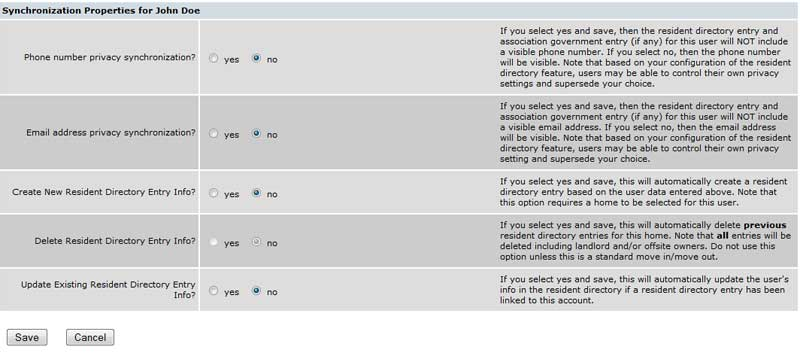
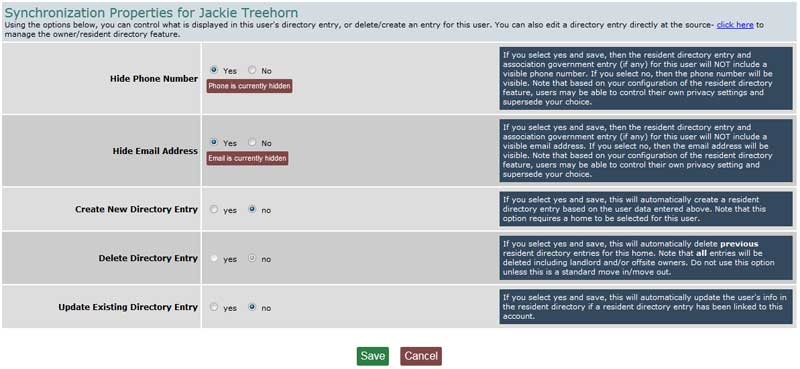
Updated users guide, started RK guide

diff --git a/user-panels.html b/user-panels.html
@@ -17,29 +17,29 @@
 					Creation - Basics
 				</li>
 			</a>
-			<a href ng-click = 'userpanel.selectTab(2, "Creation - Admins")'>
+			<a href ng-click = 'userpanel.selectTab(2, "Home Assignment")'>
 				<li ng-class = "{active:userpanel.isSelected(2)}">
-					Creation - Admin
-				</li>
-			</a>
-			<a href ng-click = 'userpanel.selectTab(3, "Creation - Contacts")'>
-				<li ng-class = "{active: userpanel.isSelected(3)}">
-					Creation - Contacts
-				</li>
-			</a>
-			<a href ng-click = 'userpanel.selectTab(4, "Home Assignment Options")'>
-				<li ng-class = "{active:userpanel.isSelected(4)}">
 					Home Assignment
 				</li>
 			</a>
-			<a href ng-click = 'userpanel.selectTab(5, "Syncing the Resident Directory")'>
-				<li ng-class = "{active: userpanel.isSelected(5)}">
+			<a href ng-click = 'userpanel.selectTab(3, "Directory Sync")'>
+				<li ng-class = "{active: userpanel.isSelected(3)}">
 					Directory Sync
 				</li>
 			</a>
-			<a href ng-click = 'userpanel.selectTab(6, "Add to a Mailing List")'>
-				<li ng-class = "{active: userpanel.isSelected(6)}">
+			<a href ng-click = 'userpanel.selectTab(4, "Mailing List")'>
+				<li ng-class = "{active:userpanel.isSelected(4)}">
 					Mailing List
+				</li>
+			</a>
+			<a href ng-click = 'userpanel.selectTab(5, "Access Level")'>
+				<li ng-class = "{active: userpanel.isSelected(5)}">
+					Access Level
+				</li>
+			</a>
+			<a href ng-click = 'userpanel.selectTab(6, "Board/Committee Contacts")'>
+				<li ng-class = "{active: userpanel.isSelected(6)}">
+					Board Contacts
 				</li>
 			</a>
 			<a href ng-click = 'userpanel.selectTab(7, "Autogenerate Users")'>
@@ -63,40 +63,22 @@
 	</div>
 	<div class = 'panel' ng-show = 'userpanel.isSelected(1)'>
 		Once you've clicked to edit an existing user or create a new user, you'll see a new screen- the top section is below.
-		<img src="HelpImages/UserSection/usersgeneral.jpg" alt="Basic User Configuration" />
-		<strong>Name</strong> - Enter the name of the primary account holder. Enter the first name in the initial name field, tab to the next field and enter the last name. You should enter names with leading capital letters (e.g. “George,” not “george”).
-		<strong>Username</strong> - The Username will be created for you in the recommended format, last name plus first initial. You can change it while you are adding a new name, but for consistency we recommend that you do not. If you do change it, the user name you enter must be at least 2 characters long and each character must be either a number or a lowercase letter. Although the field will accept many different characters, automated processes limit the length to 10 characters. We suggest that directly entered user names also be limited to 10 characters as well for consistency. If you decide after the record has been created that you want a different username, you have to delete the record and create a new one.<br />
+		<img src="HelpImages/UserSection/usersbasicinfo.jpg" alt="Basic User Configuration" />
+		<strong>Name and Username</strong> - Enter the name of the primary account holder. Enter the first name in the initial name field, tab to the next field and enter the last name. You should enter names with leading capital letters (e.g. “George,” not “george”). The Username will be created for you in the recommended format, last name plus first initial. You can change it while you are adding a new name, but for consistency we recommend that you do not. If you do change it, the user name you enter must be at least 2 characters long and each character must be either a number or a lowercase letter. Although the field will accept many different characters, automated processes limit the length to 10 characters. We suggest that directly entered user names also be limited to 10 characters as well for consistency. If you decide after the record has been created that you want a different username, you have to delete the record and create a new one.<br />
 		<br />
 		<strong>Password</strong> - The Password fields are for the entry of an initial password – or a new temporary password when your user forgets their logon credentials. If you are not changing the password, leave the fields blank. If you are, enter a new, temporary password carefully in both fields. It does not matter what password you enter as long as the entries are a minimum of 5 and maximum of 10 characters long and match exactly.<br />
 		<em>Note: Passwords are case sensitive (i.e. “OneWinner” is not the same as “onewinner”).</em><br />
 		<br />
+		<strong>Contact Info</strong> - Enter the user's email address and phone number here.  Enter the user’s email address carefully. It is best to copy (ctrl/c) and paste it (ctrl/v) from the original request document if possible. If not, pay attention to the use of upper and lower case letters in the address – some services require exact matches.  The phone number field is a free form entry field, so you can enter the number in several different formats, e.g. 1235551212, or 123-555-1212, or (123) 555-1212. If you live in a community where there is only one area code and you do not need to dial 10 digits, simply enter the 7 digit number.<br />
+		<br />
 		<strong>Notification</strong> – This feature allows you to generate an automatic email message (assuming there is an email address in the record) which will notify the user of their logon credentials. You can customize this notification in the <a href = 'helpGeneral.php'>General tab</a> on your admin panel's main left hand menu.
 	</div>
 	<div class = 'panel' ng-show = 'userpanel.isSelected(2)'>
-		This is the second section of the main user account configuration screen.
-		<img src="HelpImages/UserSection/usersadmin.jpg" alt="Admin Setup Options">
-		<strong>Site Administrator</strong> - Any user may be assigned Site Administrator status, but your site can only have one Primary Administrator. The only difference between a Primary and a non- Primary administrator is that the email address on file (and required) for a Primary Administrator is used for all standard forms (User Id Requests and the Contact Site Administrator link at the bottom of every page).<br />
+		This is the second section of the main user account configuration screen.  Below are steps you'll see when you click to edit the home assignment options.  Click tags at left to work with other areas.
+		<img src="HelpImages/UserSection/usershomedir.jpg" alt="Home Assignment">
+		<em>Remember: The “edit” link for the Home Assignment Properties will appear after you enter and save the basic user information.</em><br />
 		<br />
-		<strong>Feature Administrator</strong> – Many of the site features allow you to share the work load of maintaining the information with another community volunteer, referred to as a feature administrator. By selecting “yes” you are simply making this name available for selection later for a specific feature. The actual assignment of a particular user to feature administration is done in the “Edit” section of the feature (Calendar, Ads, etc.).<br />
-		<br />
-		<strong>Page Administrator</strong> – Any page may be assigned to a specific user for maintenance. Selecting “yes” here simply makes their name available for assigning to the page (much like a feature administrator). You can also decide if their page maintenance privileges include the ability to add new pages to the site. The actual assignment of this user to a page is done on the Page itself.
-	</div>
-	<div class = 'panel' ng-show = 'userpanel.isSelected(3)'>
-		The 3rd section of the user configuration scren is below.
-		<img src="HelpImages/UserSection/userscontact.jpg" alt="Users contact info section" />
-		<strong>Board Member</strong> – If this user is a Board member, select “yes: and enter the title. This causes the information to be made available to the Association Government (link to guide coming soon!) feature.<br />
-		<br />
-		<strong>Officer/Official</strong> – If this user is another volunteer leader in the community (e.g. Committee Chair, Web Site Administrator, Management Company representative, etc.), select “yes” and enter the title. This causes the information to be made available to the “Association Government” feature. See the “Association Government” guide for more information.<br />
-		<br />
-		<strong>Phone Number</strong> – Enter the user’s phone number. If you live in a community that has more then one area code or requires 10 digit dialing, you should enter the full 10 digit number. It’s a free form entry field, so you can enter the number in several different formats, e.g. 1235551212, or 123-555-1212, or (123) 555-1212. If you live in a community where there is only one area code and you do not need to dial 10 digits, simply enter the 7 digit number.<br />
-		<br />
-		<strong>Email Address</strong> – Enter the user’s email address carefully. It is best to copy (ctrl/c) and paste it (ctrl/v) from the original request document if possible. If not, pay attention to the use of upper and lower case letters in the address – some services require exact matches.
-	</div>
-	<div class = 'panel' ng-show = 'userpanel.isSelected(4)'>
-		<img src="HelpImages/UserSection/homeassignmentlink.jpg" alt="Home Assignment Link" />
-		<em>Note: The “edit” link for the Home Assignment Properties will appear after you enter and save the basic user information.</em> Once you have entered the Email Address, scroll down and select “Save and stay here.” The option fields will then be available for editing. Since some of the Synchronization Options require a home assignment, enter the Home Assignment Properties first followed by the Synchronization Options/Mailing List Assignment Options.<br />
-		<br />
-		<strong>Home Assignment Properties</strong> – Select “Edit” and a screen similar to the one shown below will be displayed. This screen is used to define the type of record you are entering and the residence specific options.
+		<strong>Home Assignment Options</strong> – Select “Edit” and a screen similar to the one shown below will be displayed. This screen is used to define the type of record you are entering and the residence specific options.
 		<img src="HelpImages/UserSection/homeassignmentmain.jpg" alt="Home Assignment Screen" />
 		<strong>Account Type</strong> – Users can be residents of the community or other people who do not live in the community but need access to the secured areas of the site. Select “Property Resident or Owner” for community members and “Authorized User” for others.<br />
 		<br />
@@ -113,28 +95,42 @@
 		<br />
 		<strong>Online Payment Allowed</strong> - This option authorizes a user to use the online payment feature. “Resident owner” and “non-resident owner” accounts are eligible for Online Payment while non-owner resident accounts are not. It is not unusual that more than one resident at an address has their own account. In this case, only one user account per address will be allowed to submit an Online Payment.
 	</div>
-	<div class = 'panel' ng-show = 'userpanel.isSelected(5)'>
-		<em>Note: The “edit” link for the Synchronization Options will appear after you enter and save the basic user information.</em> Once you have entered the Email Address, scroll down and select “Save and stay here.” The option fields will then be available for editing. Since some of the Synchronization Options require a home assignment, enter the Home Assignment Properties first followed by the Synchronization Options/Mailing List Assignment Options.
+	<div class = 'panel' ng-show = 'userpanel.isSelected(3)'>
+		<div class="subHead">You can configure the directory display for this user account</div>
 		<img src="HelpImages/UserSection/userdirectorysynclink.jpg" alt="User - Directory Sync Link">
-		Select “Edit” to make changes to the synchronization configurations for this user. If you are creating a new user record, especially for a new resident, these options can save you quite a bit of work.<br />
+		Select “Edit” to make changes to the directory display settings for this user. If you are creating a new user record, especially for a new resident, these options can save you quite a bit of work.<br />
 		<br />
-		Remember: The “edit” link will appear after you save the basic information. When you select “edit” next to the “User Account/Resident Directory Entry Synchronization Options” link on the initial user page, you will see a screen similar to the one below.
+		Remember: The “edit” link will appear after you save the basic information. When you select “edit” next to the “Directory Update/Security” link on the initial user page, you will see a screen similar to the one below.
 		<img src="HelpImages/UserSection/userdirectorysyncmain.jpg" alt="User - Directory Sync Screen">
-		<strong>Phone number privacy synchronization</strong> – Select “yes” to suppress the display of the phone number on the Association Government and the web site Directory screens.<br />
+		<strong>Hide Phone Number</strong> – Select “yes” to suppress the display of the phone number on the Association Government and the web site Directory screens.<br />
 		<br />
-		<strong>Email address privacy synchronization</strong> – Select “yes” to suppress the display of the email address on the Association Government and web site Directory screens.<br />
+		<strong>Hide email Address</strong> – Select “yes” to suppress the display of the email address on the Association Government and web site Directory screens.<br />
 		<br />
-		<strong>Create Resident Directory Entry Info</strong> – Select “yes” if you would like the system to create a new directory record for this user. It only works if a “home” has been assigned. This is a convenient way to add the information to the directory – especially for new, move-in users.<br />
+		<strong>Create Resident Directory Entry</strong> – Select “yes” if you would like the system to create a new directory record for this user. It only works if a “home” has been assigned. This is a convenient way to add the information to the directory – especially for new, move-in users.<br />
 		<br />
-		<strong>Delete Resident Directory Entry Info</strong> – Select “yes” if you like the system to delete the old resident’s directory entry. Be careful! Any information in that record will be deleted. It is not an appropriate option for rental homes, but it is appropriate for a standard buy/sell.<br />
+		<strong>Delete Directory Entry</strong> – Select “yes” if you like the system to delete the old resident’s directory entry. Be careful! Any information in that record will be deleted. It is not an appropriate option for rental homes, but it is appropriate for a standard buy/sell.<br />
 		<br />
-		<strong>Update Resident Directory Entry Info</strong> – Select “yes” if you want the information you have entered here to simply update the information in the directory. Typically, this is used to update the email address and phone number for current residents.
+		<strong>Update Existing Directory Entry</strong> – Select “yes” if you want the information you have entered here to simply update the information in the directory. Typically, this is used to update the email address and phone number for current residents.
 	</div>
-	<div class = 'panel' ng-show = 'userpanel.isSelected(6)'>
+	<div class = 'panel' ng-show = 'userpanel.isSelected(4)'>
 		<em>Note: The “edit” link for the Mailing List Assignment Options will appear after you enter and save the basic user information.</em> Once you have entered the Email Address, scroll down and select “Save and stay here.” The option fields will then be available for editing. Since some of the Synchronization Options require a home assignment, enter the Home Assignment Properties first followed by the Synchronization Options/Mailing List Assignment Options.
 		<img src="HelpImages/UserSection/mailinglistlink.jpg" alt="User Mailing List Link">
 		Click the 'edit' link for the Mailing List Assignment Options line and you will have access to the screen below- you'll be able to add this user to any existing mailing list, or remove them from any list they're currently assigned to.
 		<img src="HelpImages/UserSection/mailinglistmain.jpg" alt="User Mailing List Assignment Screen">
+	</div>
+	<div class = 'panel' ng-show = 'userpanel.isSelected(5)'>
+		<img src="HelpImages/UserSection/usersadmin.jpg" alt="Admin Access Settings">
+		<strong>Site Administrator</strong> - Any user may be assigned Site Administrator status, but your site can only have one Primary Administrator. The only difference between a Primary and a non- Primary administrator is that the email address on file (and required) for a Primary Administrator is used for all standard forms (User Id Requests and the Contact Site Administrator link at the bottom of every page).<br />
+		<br />
+		<strong>Feature Administrator</strong> – Many of the site features allow you to share the work load of maintaining the information with another community volunteer, referred to as a feature administrator. By selecting “yes” you are simply making this name available for selection later for a specific feature. The actual assignment of a particular user to feature administration is done in the “Edit” section of the feature (Calendar, Ads, etc.).<br />
+		<br />
+		<strong>Page Administrator</strong> – Any page may be assigned to a specific user for maintenance. Selecting “yes” here simply makes their name available for assigning to the page (much like a feature administrator). You can also decide if their page maintenance privileges include the ability to add new pages to the site. The actual assignment of this user to a page is done on the Page itself.
+	</div>
+	<div class = 'panel' ng-show = 'userpanel.isSelected(6)'>
+		<img src="HelpImages/UserSection/usersboard.jpg" alt="Board/Committee contacts" />
+		<strong>Board Member</strong> – If this user is a Board member, select “yes: and enter the title. This causes the information to be made available to the Association Government (link to guide coming soon!) feature.<br />
+		<br />
+		<strong>Officer/Official</strong> – If this user is another volunteer leader in the community (e.g. Committee Chair, Web Site Administrator, Management Company representative, etc.), select “yes” and enter the title. This causes the information to be made available to the “Association Government” feature. See the “Association Government” guide for more information.
 	</div>
 	<div class = 'panel' ng-show = 'userpanel.isSelected(7)'>
 		<div class = 'subHead'>Auto Generation of User Records from Directory Records</div>

diff --git a/rk-panels.html b/rk-panels.html
@@ -1,0 +1,65 @@
+<section>
+	<div class = 'leftMenu'>
+		<div class = 'leftMenuHeadline'>
+			<em>You are viewing the guide to working with Recordkeeping<br />
+			<br />
+			Click any tag below to see more info</em>
+			<br />
+			<br />
+		</div>
+			<a href ng-click = 'rkpanel.selectTab(0, "General")'>
+				<li ng-class = "{active:rkpanel.isSelected(0)}">
+					General
+				</li>
+			</a>
+			<a href ng-click = 'rkpanel.selectTab(1, "Main Page Properties")'>
+				<li ng-class = "{active:rkpanel.isSelected(1)}">
+					Creation
+				</li>
+			</a>
+			<a href ng-click = 'rkpanel.selectTab(2, "Page Areas")'>
+				<li ng-class = "{active:rkpanel.isSelected(2)}">
+					Page Areas
+				</li>
+			</a>
+			<a href ng-click = 'rkpanel.selectTab(3, "Menu Items")'>
+				<li ng-class = "{active: rkpanel.isSelected(3)}">
+					Menu Items
+				</li>
+			</a>
+			<a href ng-click = 'rkpanel.selectTab(4, "Working with Images")'>
+				<li ng-class = "{active:rkpanel.isSelected(4)}">
+					Images
+				</li>
+			</a>
+			<a href ng-click = 'rkpanel.selectTab(5, "Formatting Toolbar")'>
+				<li ng-class = "{active: rkpanel.isSelected(5)}">
+					Formatting
+				</li>
+			</a>
+			<a href ng-click = 'rkpanel.selectTab(6, "Page Admin")'>
+				<li ng-class = "{active: rkpanel.isSelected(6)}">
+					Page Admin
+				</li>
+			</a>
+			<a href = 'helpHome.php'>
+				<li>Home</li>
+			</a>
+	</div>
+	<div class = 'mainContent'>
+		<h1>Working with Recordkeeping: {{rkpanel.msg}}</h1>
+	<div class = 'panel' ng-show = 'rkpanel.isSelected(0)'>
+	</div>
+	<div class = 'panel' ng-show = 'rkpanel.isSelected(1)'>
+	</div>
+	<div class = 'panel' ng-show = 'rkpanel.isSelected(2)'>
+	</div>
+	<div class = 'panel' ng-show = 'rkpanel.isSelected(3)'>
+	</div>
+	<div class = 'panel' ng-show = 'rkpanel.isSelected(4)'>
+	</div>
+	<div class = 'panel' ng-show = 'rkpanel.isSelected(5)'>
+	</div>
+	<div class = 'panel' ng-show = 'rkpanel.isSelected(6)'>
+	</div>
+</section>

diff --git a/helpApp.js b/helpApp.js
@@ -154,6 +154,14 @@
 		};
 	});
 
+	app.directive('rkPanels', function() {
+		return {
+			restrict: 'E',
+			templateUrl: 'rk-panels.html',
+			controllerAs: 'rkpanel'
+		};
+	});
+
 })();
 
 //make sure any reload takes user back to top of screen

diff --git a/helpHome.php b/helpHome.php
@@ -174,6 +174,14 @@
 						</div>
 					</div>
 				</a>
+				<a href="helpRecordkeeping.php">
+					<div class = 'helpHomeButtonWrapper'>
+						<div class = 'helpHomeButton'>
+							<div class = 'buttonTitle'>Recordkeeping</div>
+							Track community information, keep board notes, and more...
+						</div>
+					</div>
+				</a>
 					<div class = 'helpHomeButtonWrapper'>
 						<div class = 'helpHomeButton'>
 							<div class = 'buttonTitle'>Photo Albums</div>
@@ -183,12 +191,6 @@
 					<div class = 'helpHomeButtonWrapper'>
 						<div class = 'helpHomeButton'>
 							<div class = 'buttonTitle'>Reservations</div>
-							Coming Soon!
-						</div>
-					</div>
-					<div class = 'helpHomeButtonWrapper'>
-						<div class = 'helpHomeButton'>
-							<div class = 'buttonTitle'>Recordkeeping</div>
 							Coming Soon!
 						</div>
 					</div>

diff --git a/helpRecordkeeping.php b/helpRecordkeeping.php
@@ -1,0 +1,20 @@
+<!DOCTYPE html>
+<html ng-app = 'helpapp'>
+
+<head>
+	<title>Recordkeeping Guide</title>
+	<meta http-equiv="X-UA-Compatible" content="IE=edge,chrome=1">
+	<link rel = 'stylesheet' type = 'text/css' href = 'helpCss.css' />
+	<link rel="icon" type="image/ico" href="HelpImages/helpfavicon.ico">
+	<script src = 'jquery.min.js'></script>
+	<script src = 'angular.min.js'></script>
+	<script src = 'helpApp.js'></script>
+</head>
+
+<body ng-controller = 'MasterController as rkpanel'>
+		<?php include 'helpHeader.php' ?>
+			<rk-panels></rk-panels>
+			<div title = 'Back to Top' class = 'backToTop'>&#9650;</div>
+
+</body>
+</html>
